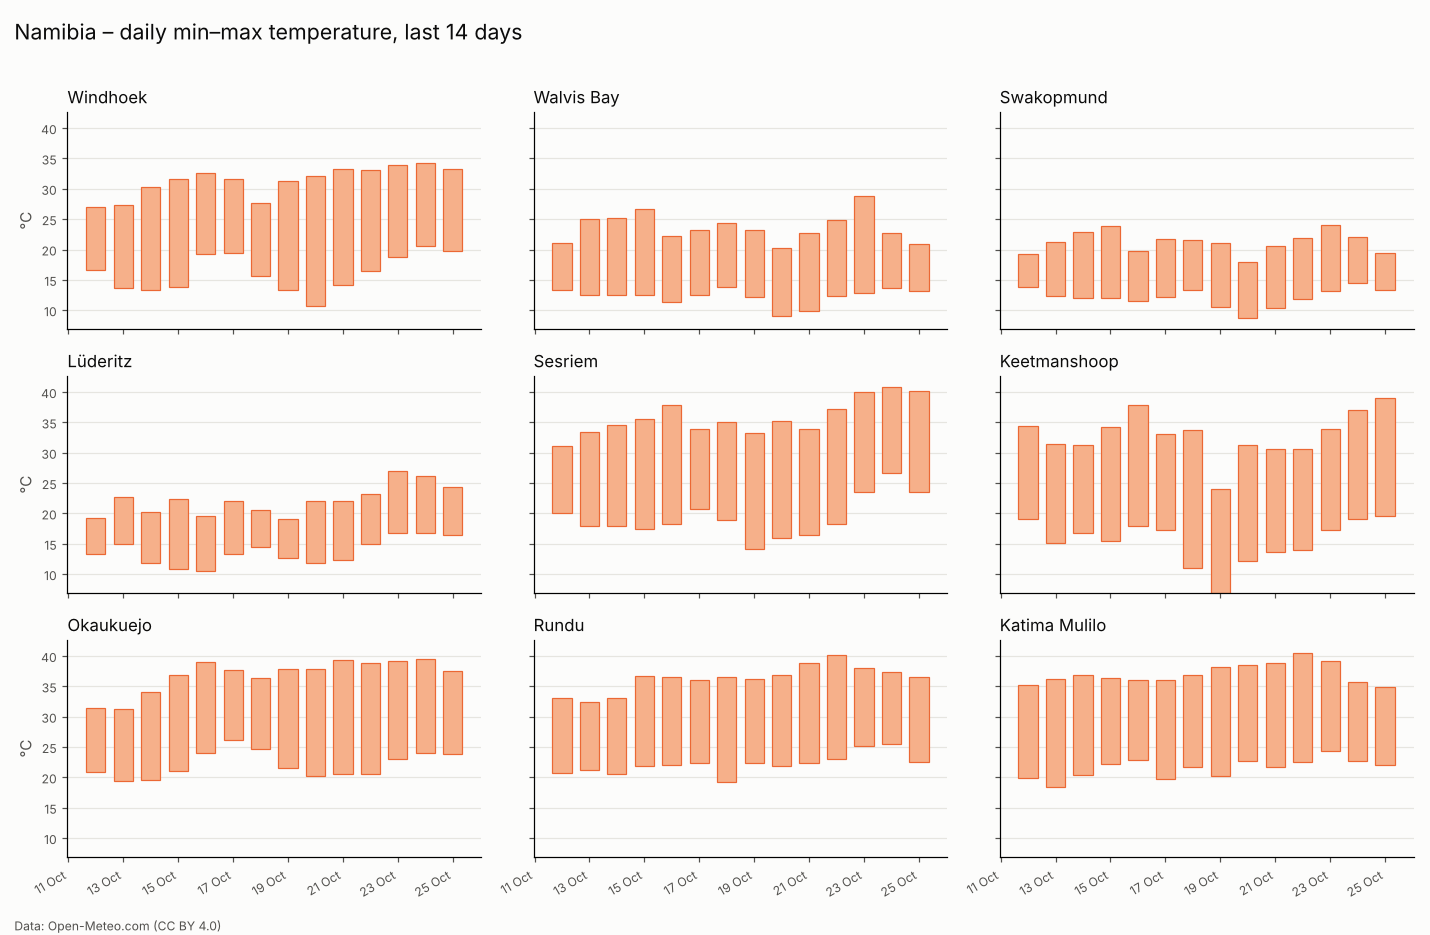
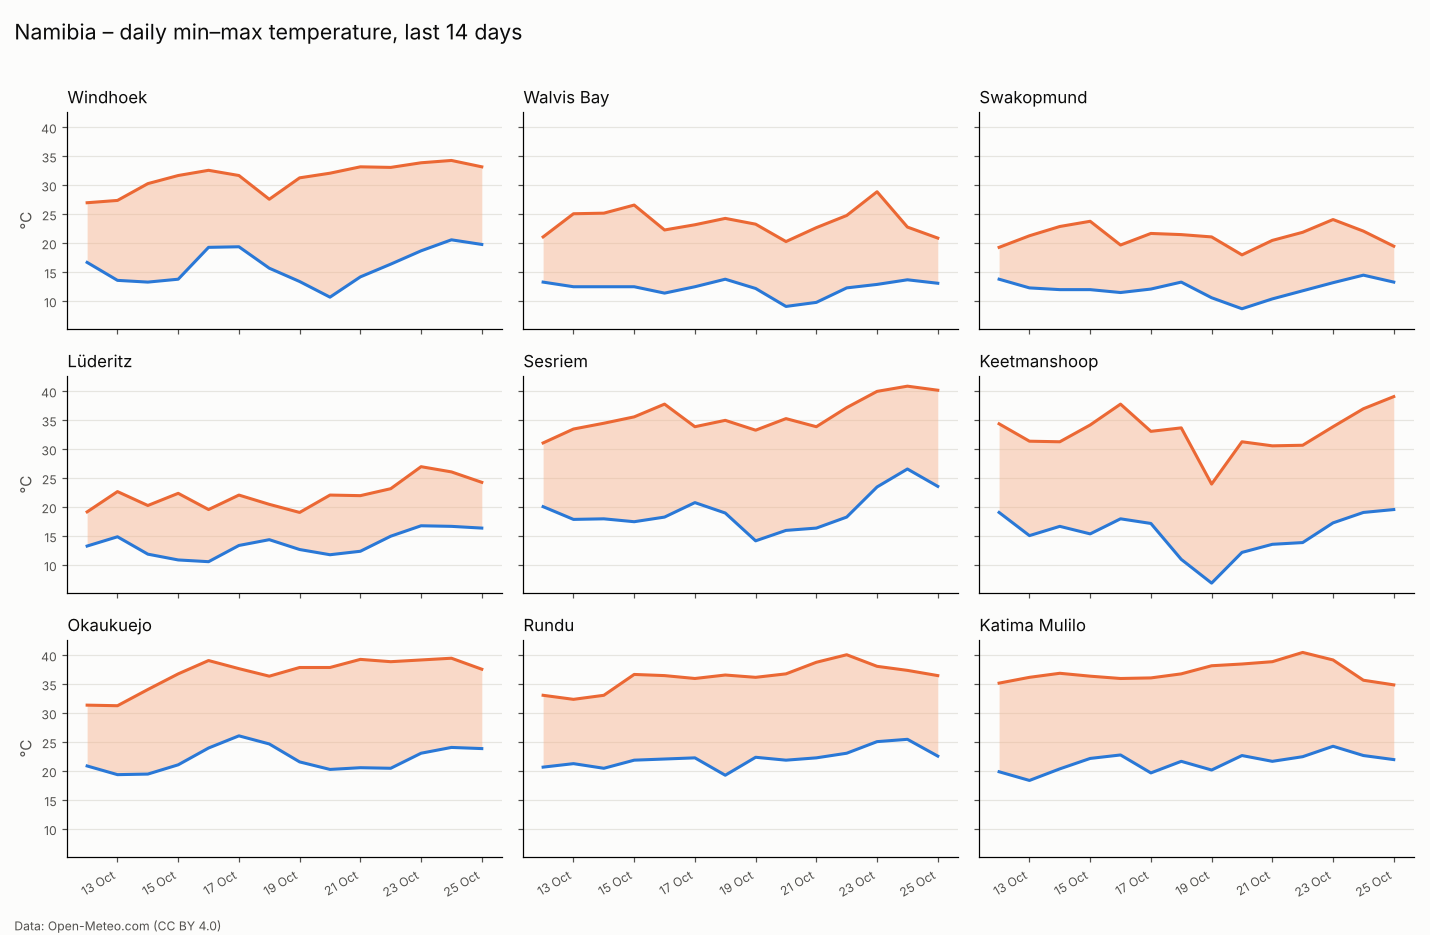
Dashboard: min temperature heatmap in blue; smooth continuous min–max band in location detail
Claude-Session: https://claude.ai/code/session_014G2dxMBZsbcJ9nXDN44oho

diff --git a/docs/index.html b/docs/index.html
@@ -49,7 +49,7 @@ footer { color:var(--ink2); font-size:12px; margin-top:32px; }
     <button type="button" data-lang="de" aria-pressed="false">DE</button>
   </div>
 </header>
-<p class="sub"><span data-en="Readings 4× daily at 06:00, 12:00, 15:00 and 19:00 Windhoek time · last updated 25 Oct 2026, 23:20 · 18 days of data" data-de="Messungen 4× täglich um 06:00, 12:00, 15:00 und 19:00 Uhr Windhoeker Zeit · zuletzt aktualisiert 25. Okt 2026, 23:20 · Daten aus 18 Tagen">Readings 4× daily at 06:00, 12:00, 15:00 and 19:00 Windhoek time · last updated 25 Oct 2026, 23:20 · 18 days of data</span></p>
+<p class="sub"><span data-en="Readings 4× daily at 06:00, 12:00, 15:00 and 19:00 Windhoek time · last updated 25 Oct 2026, 23:35 · 18 days of data" data-de="Messungen 4× täglich um 06:00, 12:00, 15:00 und 19:00 Uhr Windhoeker Zeit · zuletzt aktualisiert 25. Okt 2026, 23:35 · Daten aus 18 Tagen">Readings 4× daily at 06:00, 12:00, 15:00 and 19:00 Windhoek time · last updated 25 Oct 2026, 23:35 · 18 days of data</span></p>
 
 <div class="controls">
   <span class="label" data-en="Period" data-de="Zeitraum">Period</span>
@@ -97,19 +97,19 @@ const DATA = {"order":["Windhoek","Walvis Bay","Swakopmund","Lüderitz","Sesriem
 const CONFIG = {"displaylogo":false,"responsive":true,"scrollZoom":false,"doubleClick":false,"modeBarButtons":[["resetScale2d","zoomIn2d","zoomOut2d","autoScale2d"]]};
 const RAMPS = {"orange":["#fdeee5","#fad0b6","#f5a77d","#eb6834","#c94f1d","#963811","#64250a"],"blue":["#eef5fd","#cde2fb","#9ec5f4","#6da7ec","#2a78d6","#1c5cab","#104281"],"violet":["#f1effb","#d6d1f2","#b2a9e6","#8b7fd6","#6556c2","#4a3aa7","#2e2370"]};
 const C = {surface:"#fcfcfb", ink:"#0b0b0b", ink2:"#52514e", grid:"#e6e5e0",
-           temp:"#eb6834", tempBar:"#f6b08a", rain:"#2a78d6", wind:"#2a78d6", gustBar:"#b7d3f6"};
+           temp:"#eb6834", cold:"#2a78d6", rain:"#2a78d6", wind:"#2a78d6", gustBar:"#b7d3f6"};
 const DAY = 86400000;
 const T = {
-  en: { temp:"Temperature", tempRange:"Daily min–max temperature", reading:"Reading", rain:"Daily rainfall",
+  en: { temp:"Temperature", tempRange:"Daily min–max temperature", reading:"Reading", dayMax:"Daily max", dayMin:"Daily min", rain:"Daily rainfall",
         wind:"Wind", gustMax:"Daily max gusts", windReading:"Wind at reading",
         min:"Min", max:"Max", gusts:"Max gusts", at:"at", dfmt:"%d %b", dfull:"%a %d %b %Y",
         metric:{tmax:"Max temperature (°C)", tmin:"Min temperature (°C)", rain:"Rainfall (mm)", gmax:"Max gusts (km/h)"} },
-  de: { temp:"Temperatur", tempRange:"Tägliche Min–Max-Temperatur", reading:"Messung", rain:"Tägliche Niederschlagsmenge",
+  de: { temp:"Temperatur", tempRange:"Tägliche Min–Max-Temperatur", reading:"Messung", dayMax:"Tages-Max.", dayMin:"Tages-Min.", rain:"Tägliche Niederschlagsmenge",
         wind:"Wind", gustMax:"Tägliche max. Böen", windReading:"Wind zur Messzeit",
         min:"Min", max:"Max", gusts:"Max. Böen", at:"um", dfmt:"%d. %b", dfull:"%a %d. %b %Y",
         metric:{tmax:"Max. Temperatur (°C)", tmin:"Min. Temperatur (°C)", rain:"Niederschlag (mm)", gmax:"Max. Böen (km/h)"} },
 };
-const METRIC = { tmax:{ramp:"orange", unit:"°C", nd:0}, tmin:{ramp:"orange", unit:"°C", nd:0},
+const METRIC = { tmax:{ramp:"orange", unit:"°C", nd:0}, tmin:{ramp:"blue", unit:"°C", nd:0},
                  rain:{ramp:"blue", unit:"mm", nd:1}, gmax:{ramp:"violet", unit:"km/h", nd:0} };
 
 Plotly.register({moduleType:"locale", name:"de", dictionary:{
@@ -185,17 +185,24 @@ function drawDetail() {
   const W = 0.62 * DAY;
   const cfg = Object.assign({locale:state.lang}, CONFIG);
 
-  // Temperature: one bar per day from min to max, readings as dots inside the bar
-  const tmin = di.map(i => dl.tmin[i]), tmax = di.map(i => dl.tmax[i]);
-  const tempTraces = [{ type:"bar", name:t.tempRange, x:noon, base:tmin,
-      y:di.map((_, k) => (tmax[k] == null || tmin[k] == null) ? null : +(tmax[k] - tmin[k]).toFixed(1)),
-      width:W, marker:{color:C.tempBar, line:{width:0}}, customdata:di.map((_, k) => [tmin[k], tmax[k]]),
-      hovertemplate:"%{x|" + t.dfull + "}<br>" + t.min + " %{customdata[0]:.1f} °C · " + t.max + " %{customdata[1]:.1f} °C<extra></extra>" }];
+  // Temperature: continuous band between daily min (blue) and daily max (orange), smoothed;
+  // the individual readings as dots on top
+  // Points at noon; the first and last day are extended flat to midnight so the band spans the whole period
+  const pad = a => a.length ? [a[0], ...a, a[a.length - 1]] : a;
+  const bandX = di.length ? [dl.d[di[0]] + "T00:00", ...noon, dl.d[di[di.length - 1]] + "T23:59"] : [];
+  const tmin = pad(di.map(i => dl.tmin[i])), tmax = pad(di.map(i => dl.tmax[i]));
+  const line = (name, y, color, rank, extra) => Object.assign({ type:"scatter", mode:"lines", name, x:bandX, y,
+      line:{color, width:2.5, shape:"spline", smoothing:0.8}, legendrank:rank, connectgaps:false,
+      hovertemplate:"%{x|" + t.dfull + "}<br>" + name + ": %{y:.1f} °C<extra></extra>" }, extra || {});
+  const tempTraces = [
+    line(t.dayMin, tmin, C.cold, 2),
+    line(t.dayMax, tmax, C.temp, 1, { fill:"tonexty", fillcolor:"rgba(235,104,52,0.16)" }),
+  ];
   if (!many) tempTraces.push({ type:"scatter", mode:"markers", name:t.reading, x:ri.map(i => rd.t[i]), y:ri.map(i => rd.temp[i]),
-      marker:{color:C.temp, size:8, line:{color:C.surface, width:2}}, customdata:ri.map(i => rd.slot[i]),
+      legendrank:3, marker:{color:C.ink2, size:7, line:{color:C.surface, width:1.5}}, customdata:ri.map(i => rd.slot[i]),
       hovertemplate:"%{x|" + t.dfull + "}, %{customdata}<br>%{y:.1f} °C<extra></extra>" });
-  const lt = baseLayout((many ? t.tempRange : t.temp) + " – " + loc, "°C", 320);
-  if (many) lt.showlegend = false;
+  const lt = baseLayout(t.temp + " – " + loc, "°C", 320);
+  lt.legend.traceorder = "normal";
   Plotly.react("fig-temp", tempTraces, lt, cfg);
 
   // Rain: one bar per day

diff --git a/scripts/make_charts.py b/scripts/make_charts.py
@@ -24,7 +24,7 @@ SLOT_LABEL = {"early_morning": "06:00", "midday": "12:00", "peak": "15:00",
 
 # Colors (validated reference palette, light mode)
 SURFACE, INK, INK2, GRID = "#fcfcfb", "#0b0b0b", "#52514e", "#e6e5e0"
-TEMP, TEMP_BAR = "#eb6834", "#f6b08a"
+TEMP, TEMP_BAR, COLD = "#eb6834", "#f6b08a", "#2a78d6"
 RAIN = "#2a78d6"
 WIND, GUST_BAR = "#2a78d6", "#b7d3f6"
 # One-hue sequential ramps (light -> dark) for the overview heatmap
@@ -99,8 +99,9 @@ def static_png(df):
     for ax, loc in zip(axes.flat, ORDER):
         s = daily[daily.location == loc]
         ax.set_facecolor(SURFACE)
-        ax.bar(s.date, s.tmax - s.tmin, bottom=s.tmin, width=0.7, color=TEMP_BAR,
-               edgecolor=TEMP, linewidth=0.8)
+        ax.fill_between(s.date, s.tmin, s.tmax, color=TEMP_BAR, alpha=0.45, linewidth=0)
+        ax.plot(s.date, s.tmax, color=TEMP, lw=2)
+        ax.plot(s.date, s.tmin, color=COLD, lw=2)
         ax.set_title(loc, fontsize=11, color=INK, loc="left")
         ax.grid(axis="y", color=GRID, lw=0.8)
         ax.set_axisbelow(True)
@@ -217,19 +218,19 @@ const DATA = @@DATA@@;
 const CONFIG = @@CONFIG@@;
 const RAMPS = @@RAMPS@@;
 const C = {surface:"@@SURFACE@@", ink:"@@INK@@", ink2:"@@INK2@@", grid:"@@GRID@@",
-           temp:"@@TEMP@@", tempBar:"@@TEMP_BAR@@", rain:"@@RAIN@@", wind:"@@WIND@@", gustBar:"@@GUST_BAR@@"};
+           temp:"@@TEMP@@", cold:"@@COLD@@", rain:"@@RAIN@@", wind:"@@WIND@@", gustBar:"@@GUST_BAR@@"};
 const DAY = 86400000;
 const T = {
-  en: { temp:"Temperature", tempRange:"Daily min–max temperature", reading:"Reading", rain:"Daily rainfall",
+  en: { temp:"Temperature", tempRange:"Daily min–max temperature", reading:"Reading", dayMax:"Daily max", dayMin:"Daily min", rain:"Daily rainfall",
         wind:"Wind", gustMax:"Daily max gusts", windReading:"Wind at reading",
         min:"Min", max:"Max", gusts:"Max gusts", at:"at", dfmt:"%d %b", dfull:"%a %d %b %Y",
         metric:{tmax:"Max temperature (°C)", tmin:"Min temperature (°C)", rain:"Rainfall (mm)", gmax:"Max gusts (km/h)"} },
-  de: { temp:"Temperatur", tempRange:"Tägliche Min–Max-Temperatur", reading:"Messung", rain:"Tägliche Niederschlagsmenge",
+  de: { temp:"Temperatur", tempRange:"Tägliche Min–Max-Temperatur", reading:"Messung", dayMax:"Tages-Max.", dayMin:"Tages-Min.", rain:"Tägliche Niederschlagsmenge",
         wind:"Wind", gustMax:"Tägliche max. Böen", windReading:"Wind zur Messzeit",
         min:"Min", max:"Max", gusts:"Max. Böen", at:"um", dfmt:"%d. %b", dfull:"%a %d. %b %Y",
         metric:{tmax:"Max. Temperatur (°C)", tmin:"Min. Temperatur (°C)", rain:"Niederschlag (mm)", gmax:"Max. Böen (km/h)"} },
 };
-const METRIC = { tmax:{ramp:"orange", unit:"°C", nd:0}, tmin:{ramp:"orange", unit:"°C", nd:0},
+const METRIC = { tmax:{ramp:"orange", unit:"°C", nd:0}, tmin:{ramp:"blue", unit:"°C", nd:0},
                  rain:{ramp:"blue", unit:"mm", nd:1}, gmax:{ramp:"violet", unit:"km/h", nd:0} };
 
 Plotly.register({moduleType:"locale", name:"de", dictionary:{
@@ -305,17 +306,24 @@ function drawDetail() {
   const W = 0.62 * DAY;
   const cfg = Object.assign({locale:state.lang}, CONFIG);
 
-  // Temperature: one bar per day from min to max, readings as dots inside the bar
-  const tmin = di.map(i => dl.tmin[i]), tmax = di.map(i => dl.tmax[i]);
-  const tempTraces = [{ type:"bar", name:t.tempRange, x:noon, base:tmin,
-      y:di.map((_, k) => (tmax[k] == null || tmin[k] == null) ? null : +(tmax[k] - tmin[k]).toFixed(1)),
-      width:W, marker:{color:C.tempBar, line:{width:0}}, customdata:di.map((_, k) => [tmin[k], tmax[k]]),
-      hovertemplate:"%{x|" + t.dfull + "}<br>" + t.min + " %{customdata[0]:.1f} °C · " + t.max + " %{customdata[1]:.1f} °C<extra></extra>" }];
+  // Temperature: continuous band between daily min (blue) and daily max (orange), smoothed;
+  // the individual readings as dots on top
+  // Points at noon; the first and last day are extended flat to midnight so the band spans the whole period
+  const pad = a => a.length ? [a[0], ...a, a[a.length - 1]] : a;
+  const bandX = di.length ? [dl.d[di[0]] + "T00:00", ...noon, dl.d[di[di.length - 1]] + "T23:59"] : [];
+  const tmin = pad(di.map(i => dl.tmin[i])), tmax = pad(di.map(i => dl.tmax[i]));
+  const line = (name, y, color, rank, extra) => Object.assign({ type:"scatter", mode:"lines", name, x:bandX, y,
+      line:{color, width:2.5, shape:"spline", smoothing:0.8}, legendrank:rank, connectgaps:false,
+      hovertemplate:"%{x|" + t.dfull + "}<br>" + name + ": %{y:.1f} °C<extra></extra>" }, extra || {});
+  const tempTraces = [
+    line(t.dayMin, tmin, C.cold, 2),
+    line(t.dayMax, tmax, C.temp, 1, { fill:"tonexty", fillcolor:"rgba(235,104,52,0.16)" }),
+  ];
   if (!many) tempTraces.push({ type:"scatter", mode:"markers", name:t.reading, x:ri.map(i => rd.t[i]), y:ri.map(i => rd.temp[i]),
-      marker:{color:C.temp, size:8, line:{color:C.surface, width:2}}, customdata:ri.map(i => rd.slot[i]),
+      legendrank:3, marker:{color:C.ink2, size:7, line:{color:C.surface, width:1.5}}, customdata:ri.map(i => rd.slot[i]),
       hovertemplate:"%{x|" + t.dfull + "}, %{customdata}<br>%{y:.1f} °C<extra></extra>" });
-  const lt = baseLayout((many ? t.tempRange : t.temp) + " – " + loc, "°C", 320);
-  if (many) lt.showlegend = false;
+  const lt = baseLayout(t.temp + " – " + loc, "°C", 320);
+  lt.legend.traceorder = "normal";
   Plotly.react("fig-temp", tempTraces, lt, cfg);
 
   // Rain: one bar per day
@@ -397,7 +405,7 @@ def main():
     values = {
         "TITLE_EN": escape(TITLE["en"]), "TITLE_DE": escape(TITLE["de"]),
         "SURFACE": SURFACE, "INK": INK, "INK2": INK2, "GRID": GRID,
-        "TEMP": TEMP, "TEMP_BAR": TEMP_BAR, "RAIN": RAIN, "WIND": WIND, "GUST_BAR": GUST_BAR,
+        "TEMP": TEMP, "COLD": COLD, "RAIN": RAIN, "WIND": WIND, "GUST_BAR": GUST_BAR,
         "PLOTLY_SRC": f"https://cdn.plot.ly/plotly-{plotly.offline.get_plotlyjs_version()}.min.js",
         "SUB": sub, "H_LATEST": L("Latest readings", "Aktuelle Messwerte"),
         "THEAD": "".join(f"<th>{L(en, de)}</th>" for en, de in HEAD),

diff --git a/PROMPT.md b/PROMPT.md
@@ -79,15 +79,17 @@ browser from data embedded in the page, so all controls work offline and instant
     (remembered per viewer).
   1. Latest readings table: one row per location, flagged values marked.
   2. "All locations, day by day": heatmap, one row per location, one column per day,
-     darker = higher. Metric switch: Max temp | Min temp | Rain | Max gusts. Values are
+     darker = higher. Metric switch: Max temp (orange) | Min temp (blue) | Rain (blue) |
+     Max gusts (violet). Values are
      printed in the cells when they fit (about 7 days on a phone), otherwise tap/hover.
   3. "Location detail" for one location chosen from a drop-down:
-     - Temperature: one bar per day from daily min to max, the 4 readings as dots.
+     - Temperature: continuous smoothed band between daily min (blue line) and daily max
+       (orange line), the 4 readings as dark dots.
      - Daily rainfall: one bar per day.
      - Wind: daily max gusts as bars, wind speed at each reading as dots.
      Dots are hidden automatically when a day is narrower than ~30 px (long periods on
-     a phone), leaving the daily bars.
-docs/latest.png: static 3×3 chart of daily min–max temperature, last 14 days.
+     a phone), leaving the daily band and bars.
+docs/latest.png: static 3×3 chart of the daily min–max temperature band, last 14 days.
 Units on every axis, hover tooltips, footer "Data: Open-Meteo.com (CC BY 4.0)" and the
 last update time in Windhoek time.
 
